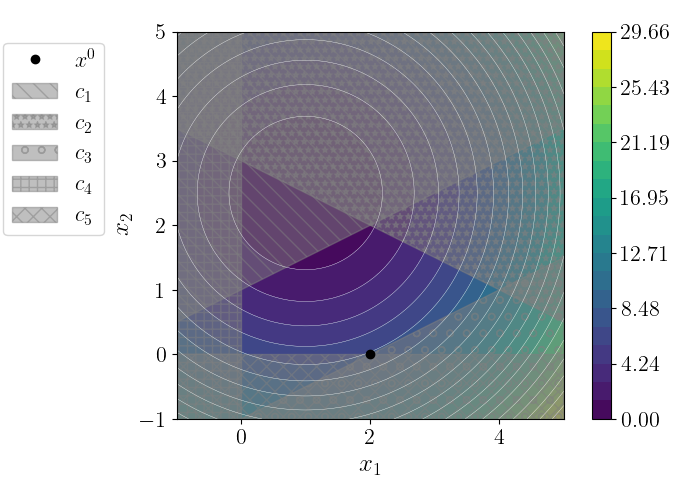
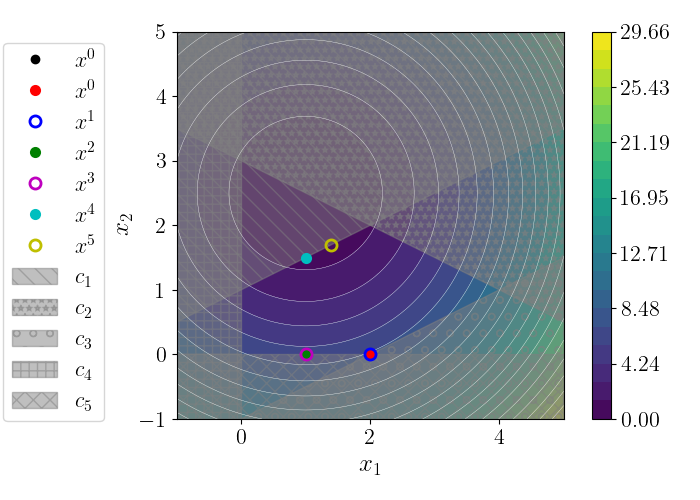
Cleaned and integrated primal inequality QP solver to Solver class

diff --git a/mtaho/w05/ex029.py b/mtaho/w05/ex029.py
@@ -1,4 +1,5 @@
 import matplotlib.pyplot as plt
+from cycler import cycler
 import numpy as np
 import os
 import sys
@@ -43,81 +44,82 @@ b = - np.array([[2.0, 6.0, 2.0, 0.0, 0.0]]).T
 
 ### Primal active set algorithm for convex QPs:
 
-# 1) We start at: x0 = (2, 0), i.e. W = {3, 5}
+# # 1) We start at: x0 = (2, 0), i.e. W = {3, 5}
 
-x0 = np.array([[2, 0]]).T
-W = [2, 4]
+# x0 = np.array([[2, 0]]).T
+# W = [2, 4]
 
-n = np.shape(x0)[0]
-m = np.shape(A)[1]
+# n = np.shape(x0)[0]
+# m = np.shape(A)[1]
 
-maxiter = 10
-numtol = 1e-6
-lams = np.zeros((m, 1))
-I = np.arange(m)
+# maxiter = 10
+# numtol = 1e-6
+# lams = np.zeros((m, 1))
+# I = np.arange(m)
 
-# Set initial vaues
-xk = x0
+# # Set initial vaues
+# xk = x0
 
-for k in range(maxiter):
+# for k in range(maxiter):
 
-    # Define system from the working set W
-    Aw = A[:, W]
-    bw = b[W]   
-    zerow = np.zeros((len(W), 1))
+#     # Define system from the working set W
+#     Aw = A[:, W]
+#     bw = b[W]   
+#     zerow = np.zeros((len(W), 1))
 
-    # Solve the equality constrained QP for the search direction pk
-    gk = H @ xk + g
-    pk, lamk = Solvers.solveEqualityQP(H, gk, Aw, zerow, 'LDL')    
+#     # Solve the equality constrained QP for the search direction pk
+#     gk = H @ xk + g
+#     pk, lamk = Solvers.solveEqualityQP(H, gk, Aw, zerow, 'LDL')    
 
-    print(f"Iteration: k = {k}")
-    print(f"xk = \n {xk}")
-    print(f"pk = \n {pk}")
-    print(f"lamk = \n {lamk}")
-    print(f"W = \n {W}")
+#     print(f"Iteration: k = {k}")
+#     print(f"xk = \n {xk}")
+#     print(f"pk = \n {pk}")
+#     print(f"lamk = \n {lamk}")
+#     print(f"W = \n {W}")
 
-    if np.isclose(np.linalg.norm(pk), 0):
+#     if np.isclose(np.linalg.norm(pk), 0):
     
-        if np.all(lamk >= numtol):           
-            # The optimal solution has been founds
-            xs = xk            
-            lams[W] = lamk
-            break
-        else:
-            # Remove the most negative constraint from the working set
-            j = np.argmin(lamk)
-            W = np.setdiff1d(W, W[j])
-            # xk = xk    
+#         if np.all(lamk >= numtol):           
+#             # The optimal solution has been founds
+#             xs = xk            
+#             lams[W] = lamk
+#             break
+#         else:
+#             # Remove the most negative constraint from the working set
+#             j = np.argmin(lamk)
+#             W = np.setdiff1d(W, W[j])
+#             # xk = xk    
                 
-    else:    
-        # Compute the distance to the nearest inactive constraint in the 
-        # search direction pk
+#     else:    
+#         # Compute the distance to the nearest inactive constraint in the 
+#         # search direction pk
 
-        # Extract system which is not contained in the working set
-        nW = np.setdiff1d(I, W)             
-        Anw = A[:, nW]
-        bnw = b[nW]
+#         # Extract system which is not contained in the working set
+#         nW = np.setdiff1d(I, W)             
+#         Anw = A[:, nW]
+#         bnw = b[nW]
         
-        # Find blocking constraints
-        blockCrit = Anw.T @ pk
-        blockCrit = blockCrit.flatten() 
-        blockCrit < 0
-        iblock = nW[blockCrit < -numtol]
+#         # Find blocking constraints
+#         blockCrit = Anw.T @ pk
+#         blockCrit = blockCrit.flatten() 
+#         blockCrit < 0
+#         iblock = nW[blockCrit < -numtol]
 
-        # Find step length        
-        alphas = (b[iblock] - Anw[:, iblock].T @ xk)/( Anw[:, iblock].T @ pk )
-        alpha = np.minimum(1, alphas)
-        j = np.argmin(alpha)
-        alphak = alpha[j]
+#         # Find step length        
+#         alphas = (b[iblock] - Anw[:, iblock].T @ xk)/( Anw[:, iblock].T @ pk )
+#         alpha = np.minimum(1, alphas)
+#         j = np.argmin(alpha)
+#         alphak = alpha[j]
 
-        if alphak < 1:
-            xk = xk + alphak*pk
-            W = np.append(W, j)
-            W.sort()
-        else:
-            xk = xk + pk
+#         if alphak < 1:
+#             xk = xk + alphak*pk
+#             W = np.append(W, j)
+#             W.sort()
+#         else:
+#             xk = xk + pk
 
-    print("")
+#     print("")
+# print(f"Solution found after {k} iterations: x = \n {xs}")
 
 ## Correct steps:
     
@@ -134,24 +136,12 @@ for k in range(maxiter):
 # k=5: xk = [1.4, 1.7]', pk = [0, 0]'   , lamk = [0.8]'    , W = {1}    
 
 
+## Test method
+x0 = np.array([[2, 0]]).T
+W = [2, 4]
+sol = Solvers.InequalityQPSolverPrimal(H, g, A, b, x0, W)
 
-
-print(f"Solution found after {k} iterations: x = \n {xs}")
-
-
-
-
-
-
-
-
-
-
-
-
-
-
-
+print(sol)
 
 ### Contour plot
 xlim = [-1, 5]
@@ -162,8 +152,20 @@ fig, ax = Opt.contourPlot(funContour,
                           fontSize=18)
 ms = 6
 
+custom_cycler = (cycler(color=['r', 'b', 'g', 'm', 'c', 'y']))
+ax.set_prop_cycle(custom_cycler)
+
 # Plot solutions
 ax.plot(x0[0], x0[1], 'ko', label='$x^0$', markersize=ms)
+for i, x in enumerate(sol['xiter'].T):
+    ms = 6
+    mfc = None
+    if i % 2:
+        ms = 8
+        mfc = 'none'    
+    ax.plot(x[0], x[1], 'o', label=f'$x^{i}$', markersize=ms,
+            markerfacecolor=mfc, markeredgewidth=2)
+
 
 # Draw constraints
 xc = np.linspace(xlim[0], xlim[1])

diff --git a/mtaho/src/Solvers.py b/mtaho/src/Solvers.py
@@ -137,4 +137,99 @@ class Solvers:
         x = scipy.linalg.cho_solve((c, L), A @ lam - g)
         return x, lam
     
+    @classmethod
+    def InequalityQPSolverPrimal(self, H, g, A, b, x0, W):
+
+        # Settings
+        maxiter = 10       # Maximum no. of iterations
+        numtol = 1e-6       # Numerical tolerance for checks
+
+        # Initialize
+        n = np.shape(x0)[0]
+        m = np.shape(A)[1]
+        lams = np.zeros((m, 1))
+        I = np.arange(m)
+        xkStore = np.zeros((n, maxiter))
+        WStore = np.zeros((m, maxiter))
+        sol = {}
+        sol["succes"] = 0
+
+        # Set initial values
+        xk = x0
+        sol["x0"] = x0
+
+        for k in range(maxiter):
+
+            # Store values
+            xkStore[:, k:k+1] = xk
+            WStore[:, k] = np.isin(I, W)
+
+            # Define system from the working set W
+            Aw = A[:, W]
+            zerow = np.zeros((len(W), 1))
+
+            # Solve the equality constrained QP for the search direction pk
+            gk = H @ xk + g
+            pk, lamk = Solvers.solveEqualityQP(H, gk, Aw, zerow, 'LDL')    
+
+            print(f"Iteration: k = {k}")
+            print(f"xk = \n {xk}")
+            print(f"pk = \n {pk}")
+            print(f"lamk = \n {lamk}")
+            print(f"W = \n {W}")
+
+            if np.isclose(np.linalg.norm(pk), 0):
+            
+                if np.all(lamk >= numtol):           
+                    # The optimal solution has been founds
+                    xs = xk            
+                    lams[W] = lamk
+                    print(f"Solution found after {k} iterations: x = \n {xs}")
+                    sol["succes"] = 1
+                    # Store values
+                    xkStore[:, k:k+1] = xk
+                    WStore[:, k] = np.isin(I, W)
+                    break
+                else:
+                    # Remove the most negative constraint from the working set
+                    j = np.argmin(lamk)
+                    W = np.setdiff1d(W, W[j])
+                    # xk = xk    
+                        
+            else:    
+                # Compute the distance to the nearest inactive constraint in the 
+                # search direction pk
+
+                # Extract system which is not contained in the working set
+                nW = np.setdiff1d(I, W)             
+                Anw = A[:, nW]
+               
+                # Find blocking constraints
+                blockCrit = Anw.T @ pk
+                blockCrit = blockCrit.flatten() 
+                blockCrit < 0
+                iblock = nW[blockCrit < -numtol]
+
+                # Find step length        
+                alphas = (b[iblock] - Anw[:, iblock].T @ xk)/( Anw[:, iblock].T @ pk )
+                alpha = np.minimum(1, alphas)
+                j = np.argmin(alpha)
+                alphak = alpha[j]
+
+                if alphak < 1:
+                    xk = xk + alphak*pk
+                    W = np.append(W, j)
+                    W.sort()
+                else:
+                    xk = xk + pk
+
+            sol["iter"] = k
+            sol["xiter"] = xkStore[:, 0:k+2]
+            sol["Witer"] = WStore[:, 0:k+2]
+            if sol["succes"] == 0:
+                print("Solution could not be found")       
+
+
+        return sol
+    
 
